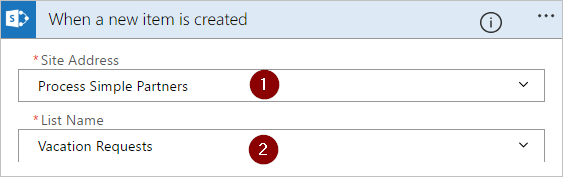
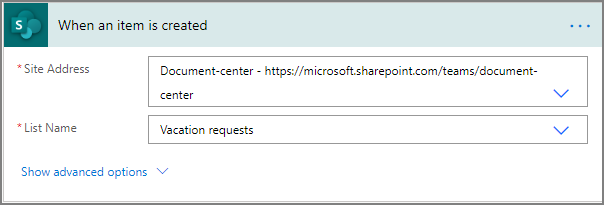
update for current UI, remove unneccesary screen

diff --git a/articles/includes/add-trigger-when-sharepoint-item-created.md b/articles/includes/add-trigger-when-sharepoint-item-created.md
@@ -1,8 +1,2 @@
-1. Enter **SharePoint** into the search box.
-   
-    ![search for sharepoint triggers](media/modern-approvals/search-for-sharepoint.png)
-2. Find, and then select the **SharePoint - When an item is created** trigger.
-   
-    ![select sharepoint trigger](media/modern-approvals/select-sharepoint-new-item.png)
-3. Select the **Site Address** and the **List Name** for the SharePoint list that your flow monitors for new items.
-
+1. Under **Choose your flow's trigger**, select **When an item is created - SharePoint**, and then select **Create**.
+2. On the **When an item is created - SharePoint** screen, select the **Site Address** and the **List Name** for the SharePoint list that your flow monitors for new items.

diff --git a/articles/includes/sign-in-and-create-flow-from-blank-template.md b/articles/includes/sign-in-and-create-flow-from-blank-template.md
@@ -1,12 +1,3 @@
 1. Sign in to [Power Automate](https://flow.microsoft.com).
-   
-    ![sign in](media/modern-approvals/sign-in.png)
-2. Select the **My flows** tab.
-   
-    ![select my flows](media/modern-approvals/select-my-flows.png)
-3. Select **Create from blank**.
-   
-    ![create from blank](media/modern-approvals/blank-template.png)
-
-4. Select the **Create from blank** button.
-
+1. Select **My flows** in the left-side navigation pane.
+1. On the top-left menu, select **+New** > **+ Instant-from blank**.
